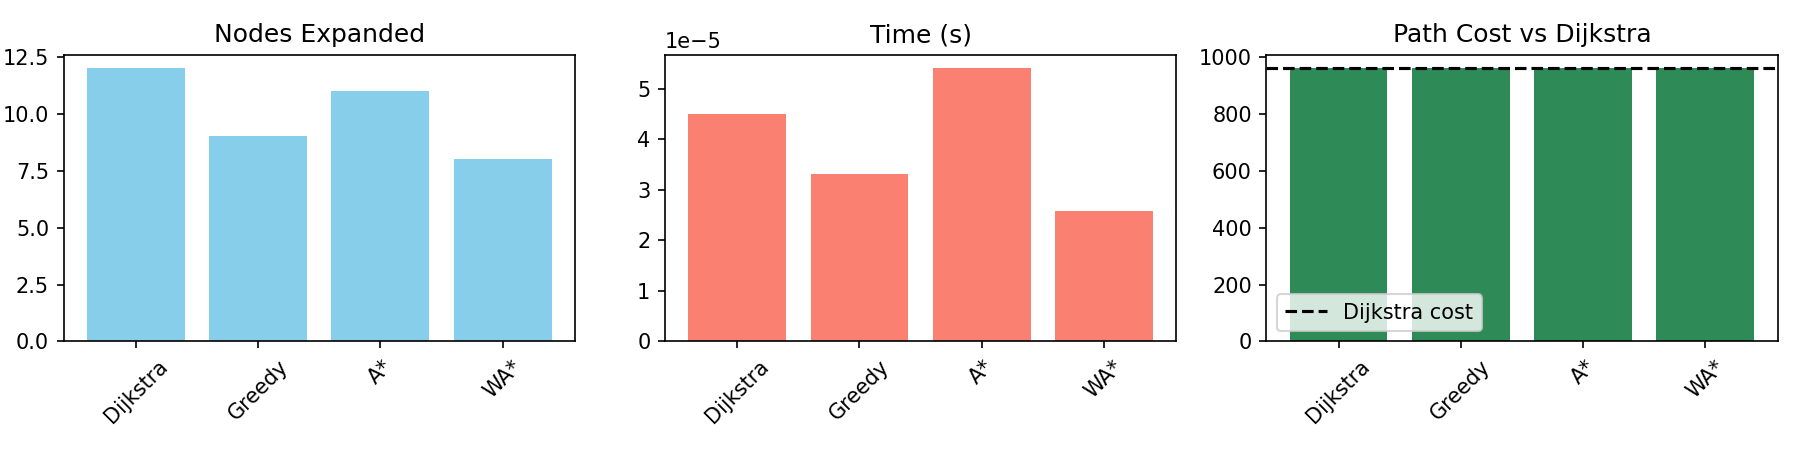
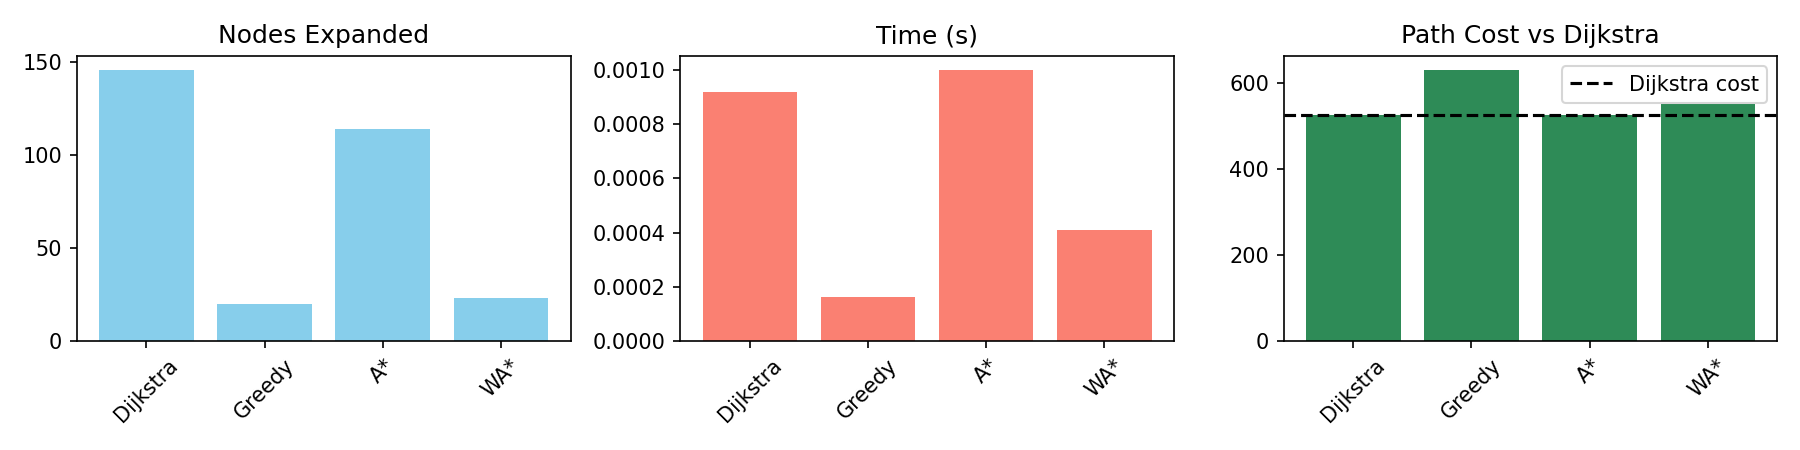
graph

diff --git a/route_planning/graph_builder.py b/route_planning/graph_builder.py
@@ -1,31 +1,70 @@
-"""Graph generation utilities using OSMnx."""
+"""Graph generation utilities using OSMnx.
+
+Sets PROJ_NETWORK=OFF up front so pyproj/osmnx avoid network fetches for
+grid files, which can hang in restricted environments.
+"""
 
 from __future__ import annotations
 
+import os
+
+# Disable network downloads for PROJ data *before* importing osmnx/pyproj
+# to avoid long hangs in restricted environments.
+os.environ.setdefault("PROJ_NETWORK", "OFF")
+
 import osmnx as ox
 import networkx as nx
+import time
+
+
+def _synthetic_grid(target_nodes: int = 400, spacing: float = 30.0) -> nx.MultiDiGraph:
+    """Offline fallback: build a simple grid graph with x/y coords and lengths."""
+    side = max(2, int(target_nodes ** 0.5))
+    rows = cols = side
+    base = nx.grid_2d_graph(rows, cols, create_using=nx.Graph)
+    G = nx.MultiDiGraph()
+    G.graph["crs"] = "epsg:3857"
+    for (r, c) in base.nodes:
+        G.add_node((r, c), x=float(c * spacing), y=float(r * spacing))
+    for u, v in base.edges:
+        G.add_edge(u, v, length=spacing)
+        G.add_edge(v, u, length=spacing)
+    return G
 
 
 def generate_graph(center: tuple[float, float], min_nodes: int = 50, max_nodes: int = 200) -> nx.MultiDiGraph:
+    use_osm = os.environ.get("USE_OSM", "0") == "1"
+    if not use_osm:
+        G = _synthetic_grid(target_nodes=max_nodes)
+        print(f"[info] Synthetic grid | Nodes: {len(G)} | Edges: {len(G.edges())}")
+        return G
+
     ox.settings.log_console = False
     ox.settings.use_cache = True
+    ox.settings.timeout = 20  # seconds per request
 
     radius = 1000  # meters
-    G = None
+    G: nx.MultiDiGraph | None = None
+    start_time = time.time()
 
-    while True:
-        G = ox.graph_from_point(center, dist=radius, network_type="drive")
-        if len(G) >= min_nodes:
-            break
-        radius = int(radius * 1.5)
+    try:
+        while True:
+            G = ox.graph_from_point(center, dist=radius, network_type="drive")
+            if len(G) >= min_nodes:
+                break
+            radius = int(radius * 1.5)
+            if time.time() - start_time > 60:
+                raise TimeoutError("OSM download taking too long; falling back to synthetic grid")
 
-    if len(G) > max_nodes:
-        nodes = list(G.nodes)[:max_nodes]
-        G = G.subgraph(nodes).copy()
+        if len(G) > max_nodes:
+            nodes = list(G.nodes)[:max_nodes]
+            G = G.subgraph(nodes).copy()
 
-    print(f"Nodes: {len(G)} | Edges: {len(G.edges())}")
-    G = ox.project_graph(G)
-
-    # Non-blocking plot saved to file (prevents GUI hang)
-    # Skip plotting to keep runs non-blocking and fast.
-    return G
+        G = ox.project_graph(G)
+        print(f"[info] OSM graph loaded | Nodes: {len(G)} | Edges: {len(G.edges())}")
+        return G
+    except Exception as e:
+        print(f"[warn] OSM graph load failed ({e}); using offline synthetic grid")
+        G = _synthetic_grid(target_nodes=max_nodes)
+        print(f"[info] Synthetic grid | Nodes: {len(G)} | Edges: {len(G.edges())}")
+        return G

diff --git a/run_experiments.py b/run_experiments.py
@@ -12,6 +12,10 @@ from __future__ import annotations
 
 import networkx as nx
 import pandas as pd
+import matplotlib
+
+# Force non-interactive backend to prevent GUI hangs
+matplotlib.use("Agg")
 import matplotlib.pyplot as plt
 
 from route_planning.graph_builder import generate_graph
@@ -108,7 +112,8 @@ def plot_weight_sweeps(results):
 
 def main():
     center = (23.746, 90.376)  # Dhaka example
-    G = generate_graph(center, min_nodes=120, max_nodes=180)
+    # Smaller graph for quicker runs while keeping variability
+    G = generate_graph(center, min_nodes=100, max_nodes=140)
 
     assign_synthetic_features(G)
     apply_cost(G, DEFAULT_WEIGHTS)
